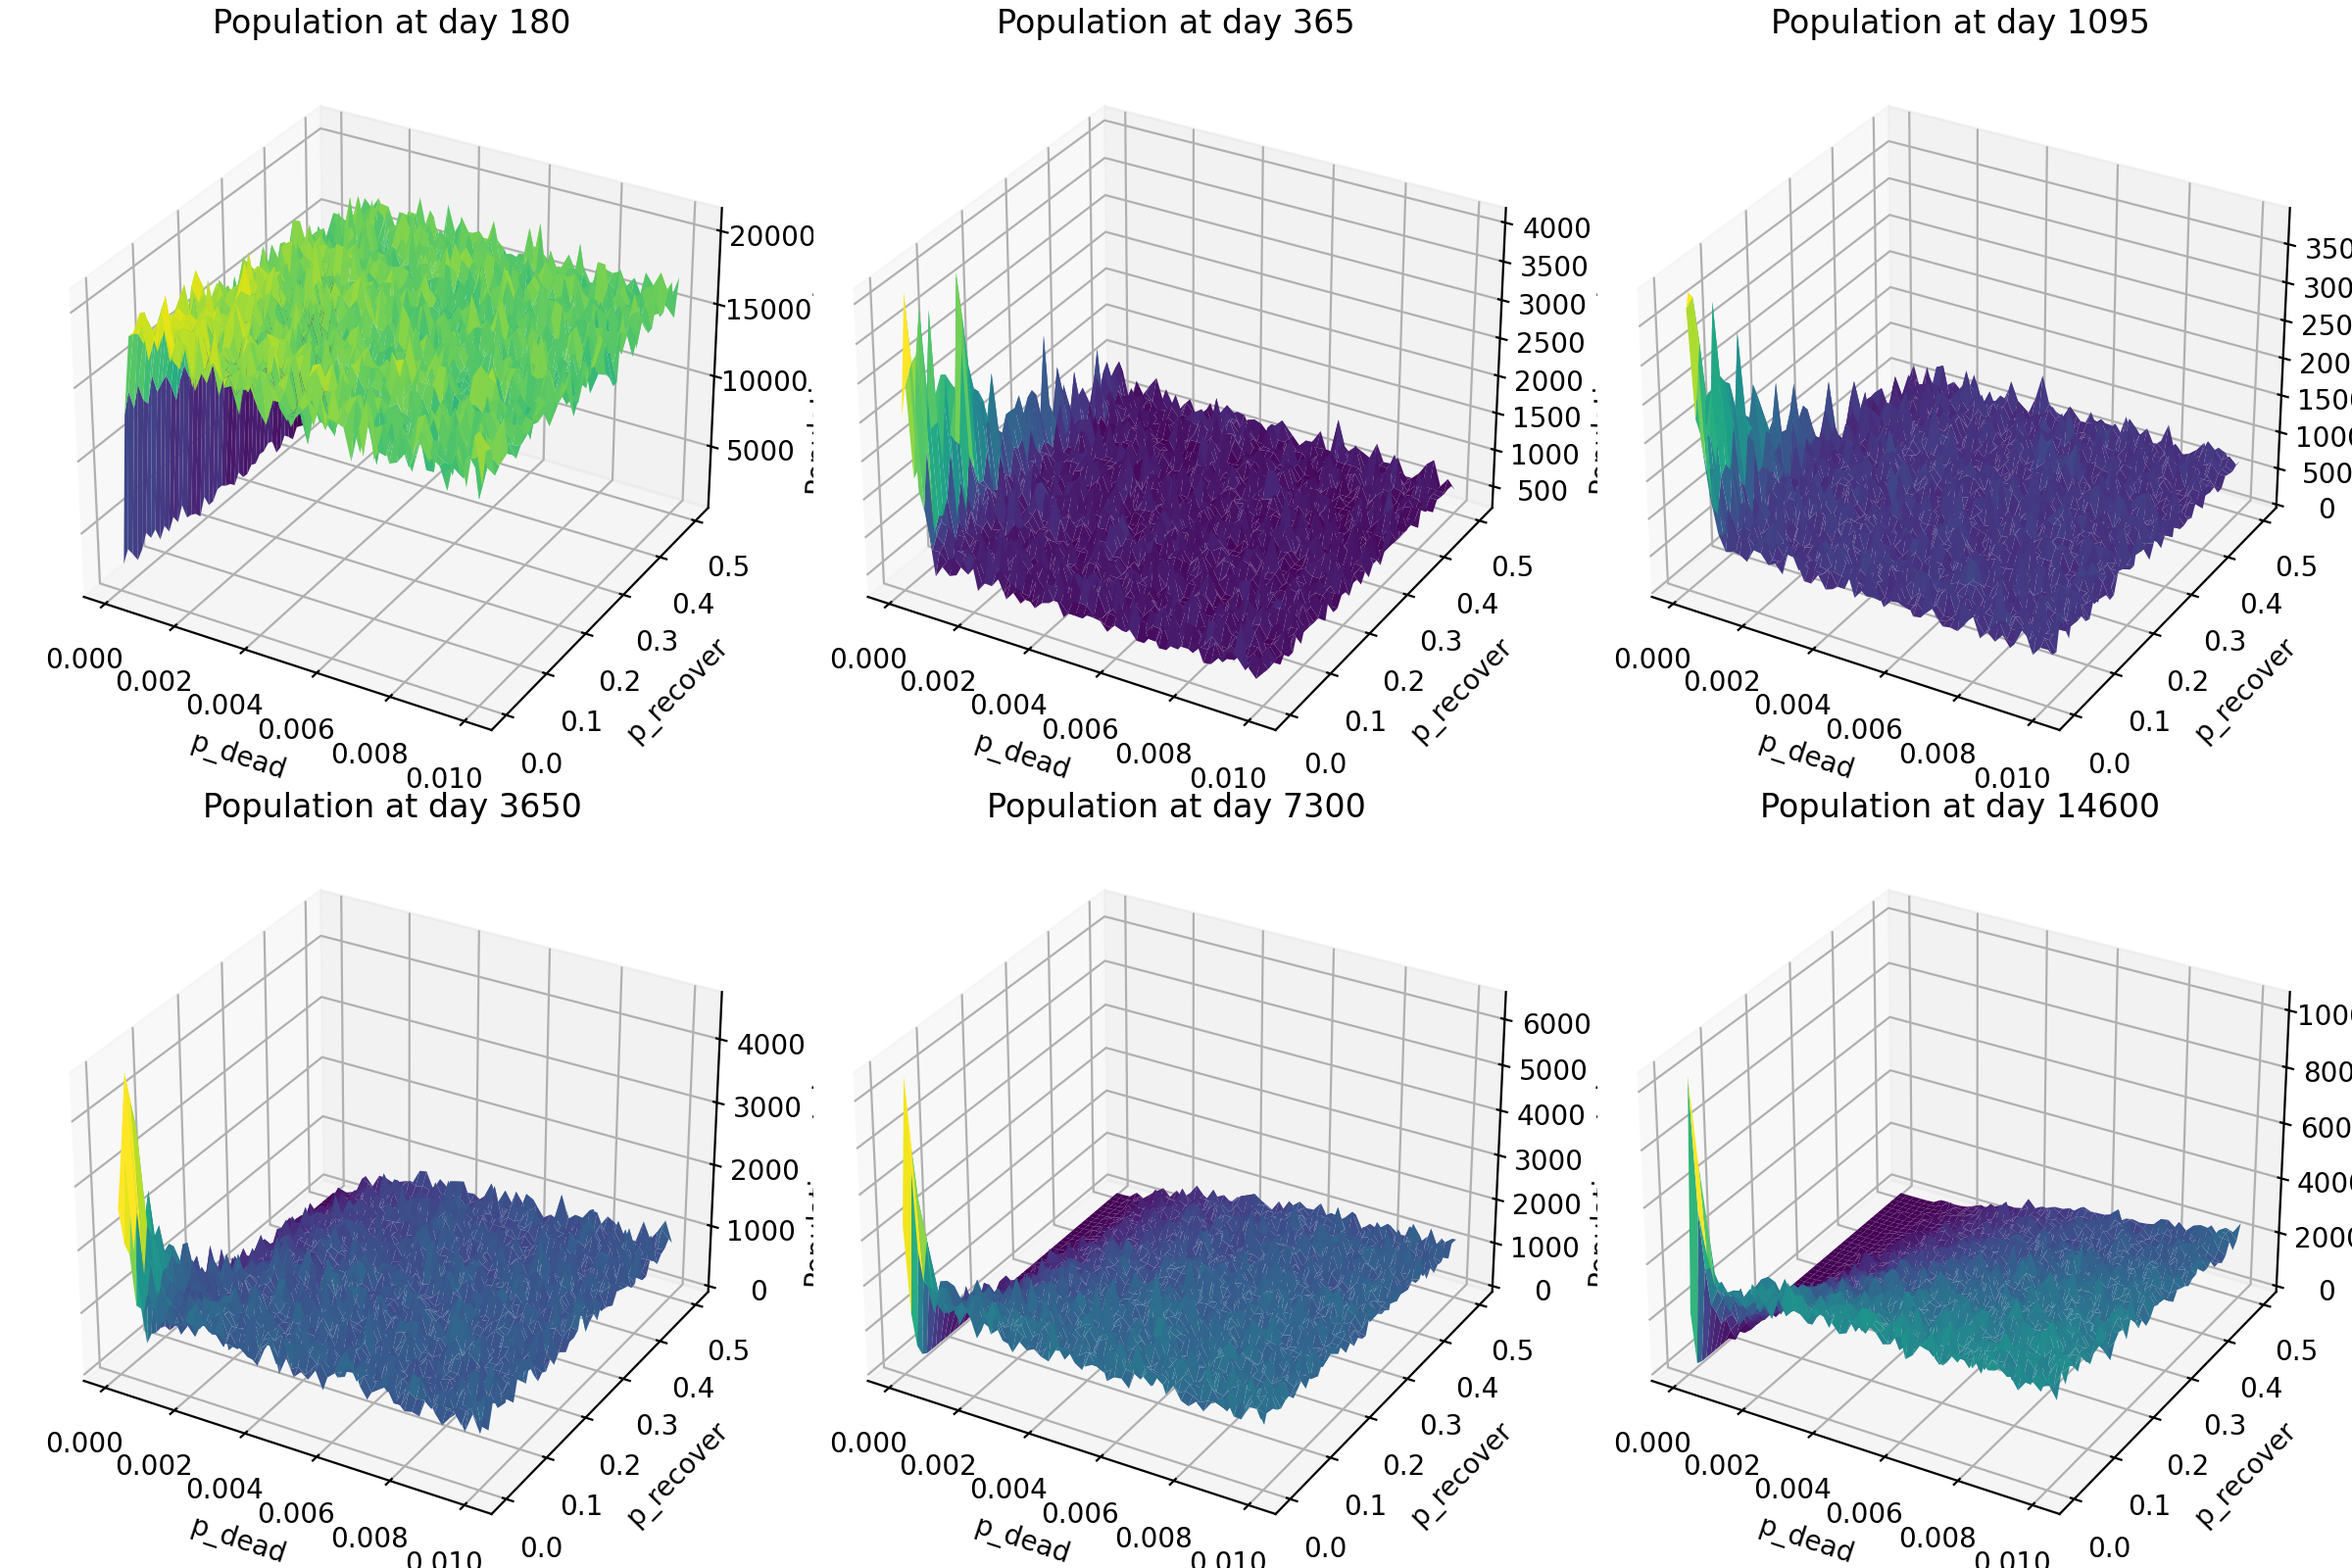
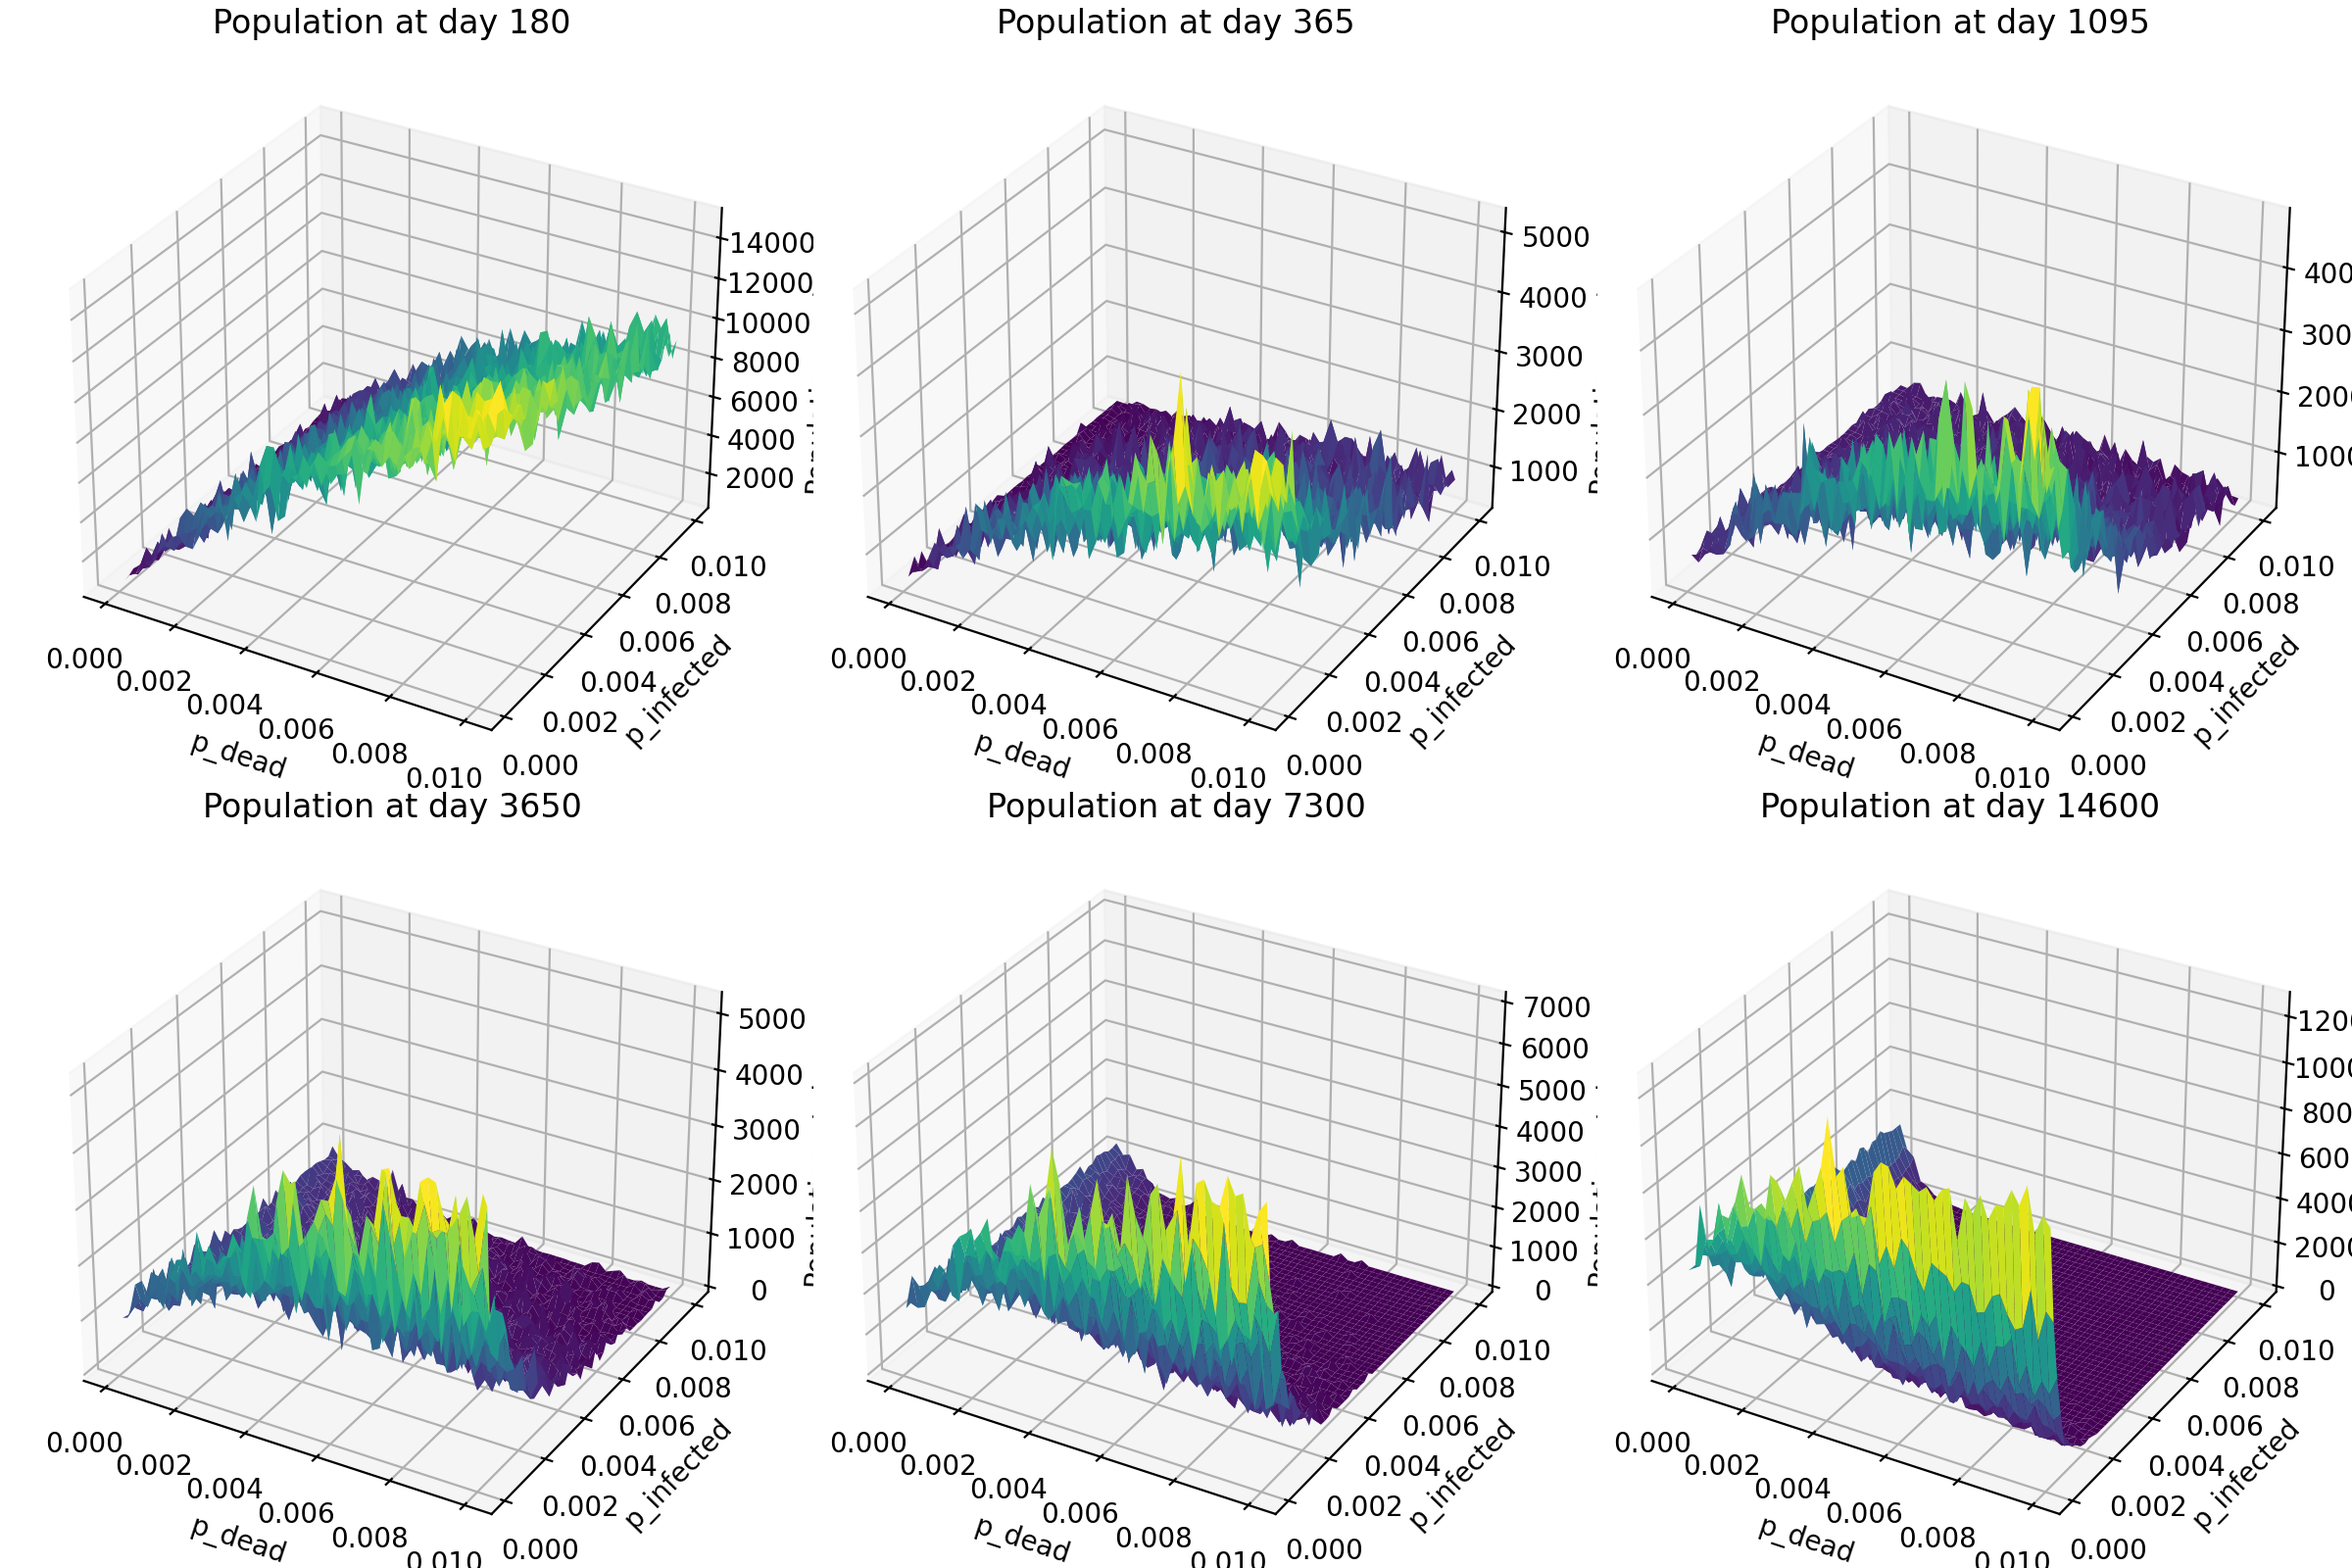
only infected in winter

diff --git a/simulate/helper_funcs.py b/simulate/helper_funcs.py
@@ -133,9 +133,13 @@ def plot_history_highlights(history, winter, sample=[]):
 
     # highlight the winter data
     for time in t:
-        if time % 365 == winter:
+        
+        if time % 365 == winter and time <= 365:
             ax1.axvspan(time - winter, time, facecolor='blue', alpha=0.1)
             ax2.axvspan(time - winter, time, facecolor='blue', alpha=0.1)
+        if time % 365 == winter:
+            ax1.axvspan(time - winter + 365, time + 365, facecolor='blue', alpha=0.1)
+            ax2.axvspan(time - winter + 365, time + 365, facecolor='blue', alpha=0.1)
 
     plt.tight_layout()
     plt.show()

diff --git a/simulate/bifurcations/bifurcations_3D.py b/simulate/bifurcations/bifurcations_3D.py
@@ -46,9 +46,9 @@ immunity_period = 130    # number of days spent in recovery before re-infection 
 times_list = [180, 365, 3*365, 10*365, 20*365, 40*365]
 #times_list = [3*365, 10*365, 40*365]
 
-param_change = ["p_dead", "p_recover"]
-num_params = 50
-parameters_list = [np.linspace(0.0001,0.01,num_params), np.linspace(0.01,0.5,num_params)]
+param_change = ["p_dead", "p_infected"]
+num_params = 20
+parameters_list = [np.linspace(0.0001,0.01,num_params), np.linspace(0.0001,0.01,num_params)]
 totals_list = np.empty((num_params,num_params), dtype=object)
 
 for i in range(num_params):

diff --git a/simulate/rules.py b/simulate/rules.py
@@ -61,7 +61,7 @@ def update_individuals(state, env, parameters):
     for i in range(len(state["Hi"])):
         Hi = state["Hi"][i]
 
-        if WNS and Hi and rand.uniform(0, 1) <= p_infected: # rule 9
+        if WNS and Hi and rand.uniform(0, 1) and not Te <= p_infected: # rule 9
             In_next.append(1)
         elif not Te and Hi and rand.uniform(0, 1) <= p_awake: # rule 1
             NHi_NIn_next.append(1)

diff --git a/simulate/running_solvers/run_tests.py b/simulate/running_solvers/run_tests.py
@@ -38,7 +38,8 @@ def sample_params():
         "p_netchange": rand.uniform(0.0001, 0.0003),
         "water": rand.uniform(100,5000),
         "food": rand.uniform(100,5000),
-        "winter": 120
+        "winter": 120,
+        "immunity_period": immunity_period
     }
 
 # ------------------------------------------

diff --git a/simulate/running_solvers/run_tests_parallel.py b/simulate/running_solvers/run_tests_parallel.py
@@ -39,7 +39,8 @@ def sample_params():
         "p_netchange": rand.uniform(0.0001, 0.0003),
         "water": rand.uniform(100,500),
         "food": rand.uniform(100,500),
-        "winter": 120
+        "winter": 120,
+        "immunity_period": immunity_period
     }
 
 # ------------------------------------------
